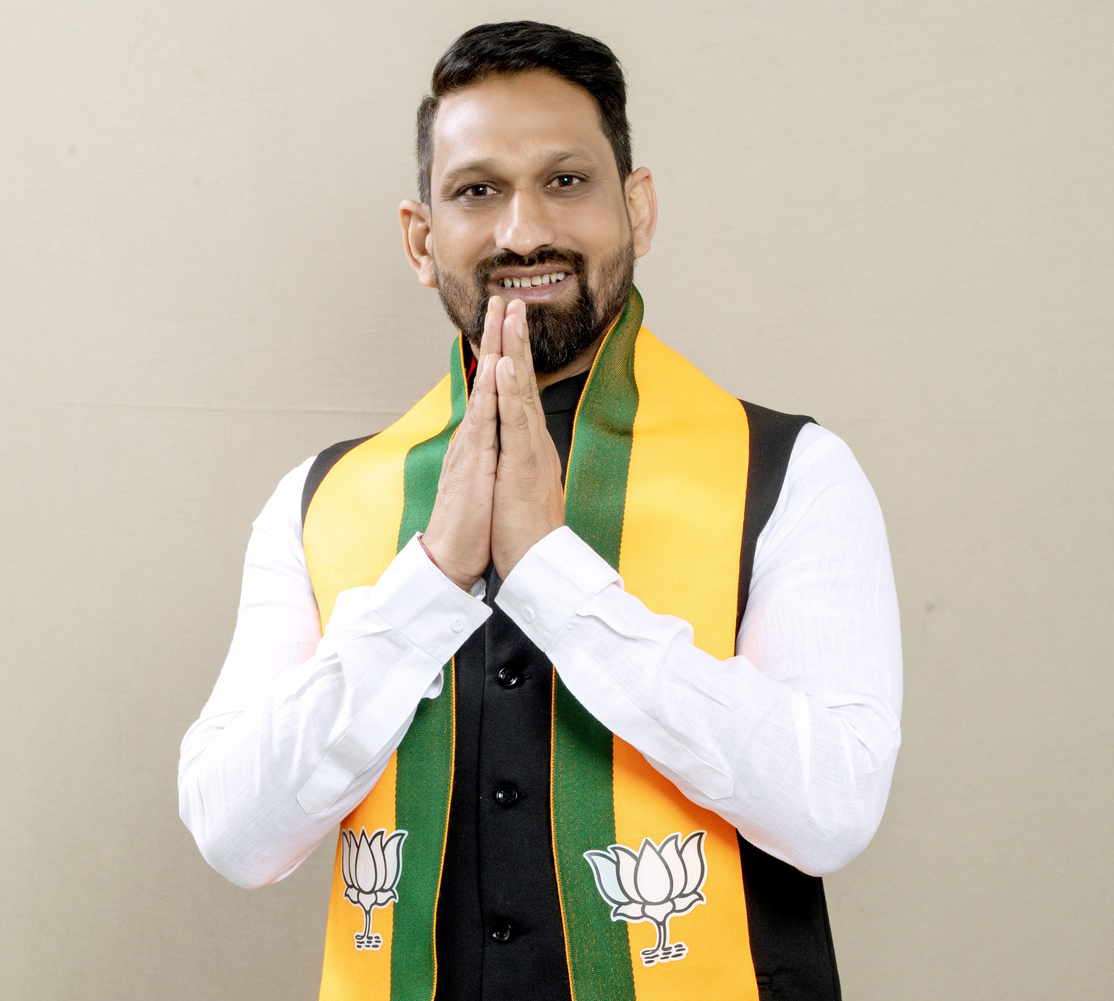
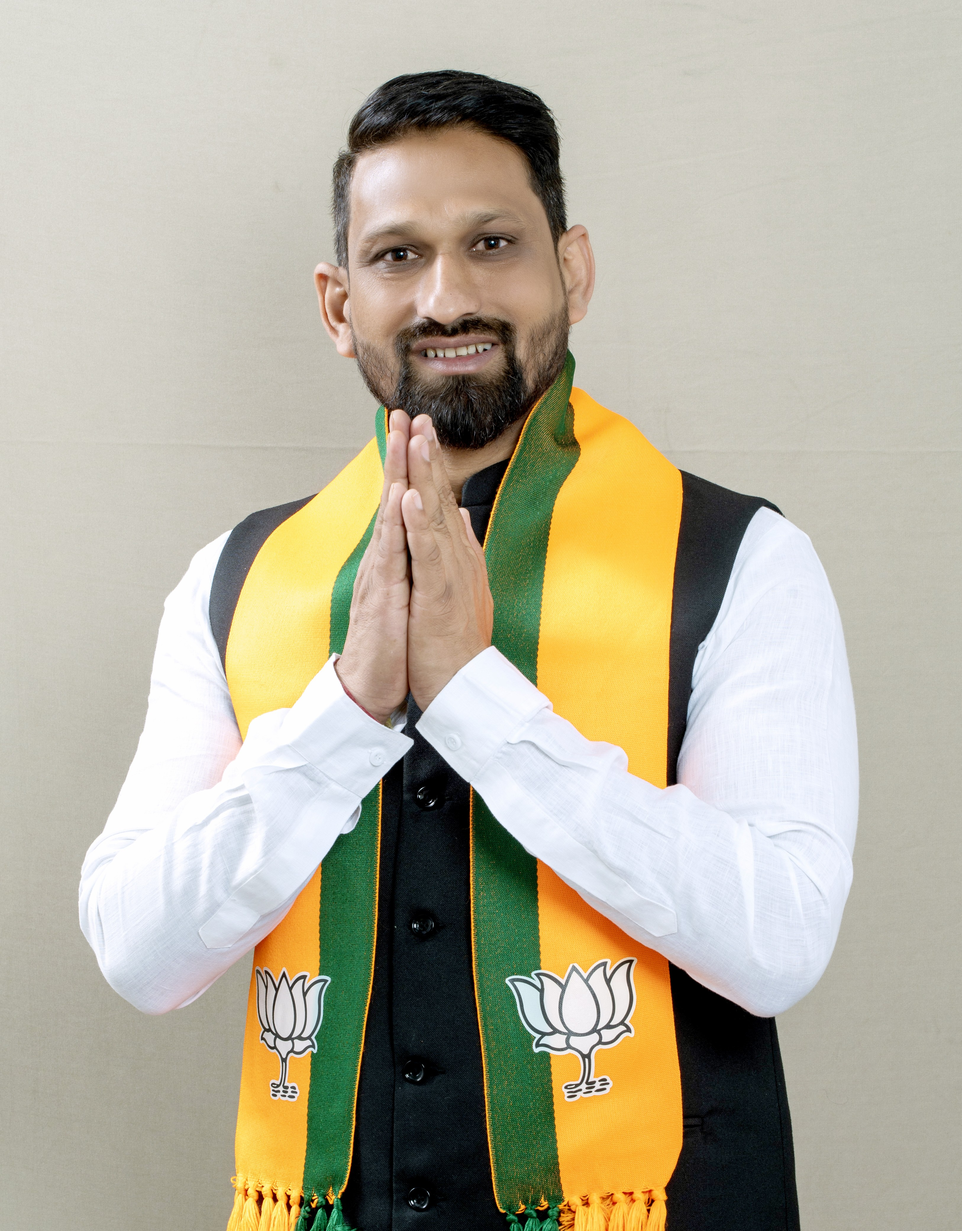
Update volunteer, vision and ward issues sections

diff --git a/style.css b/style.css
@@ -172,7 +172,7 @@ section h2::after { content:''; position:absolute; bottom:0; left:50%; transform
 
 .about-image { 
   width:100%; 
-  height:500px; 
+  aspect-ratio: 3253 / 4161; 
   background: linear-gradient(135deg, var(--color-primary), #ff8c42); 
   border-radius:20px; 
   overflow:hidden; 
@@ -192,7 +192,7 @@ section h2::after { content:''; position:absolute; bottom:0; left:50%; transform
 .candidate-photo {
   width:100%; 
   height:100%; 
-  object-fit:cover; 
+  object-fit:contain; 
   display:block; 
 }
 
@@ -596,7 +596,7 @@ footer p { margin-bottom:10px; opacity:0.9; }
     .hero h1 { font-size:28px; }
     .hero .tagline { font-size:var(--font-size-base); }
     .about .content, .contact-content { grid-template-columns: 1fr; }
-    .about-image { height:250px; }
+    .about-image { aspect-ratio: 3253 / 4161; max-height: 500px; }
     section { padding:50px 20px; }
     .cta-buttons { flex-direction: column; }
     .btn { width:100%; }

diff --git a/index.html b/index.html
@@ -691,7 +691,7 @@
 
         .about-image {
             width: 100%;
-            height: 800px;
+            aspect-ratio: 3253 / 4161;
             background: linear-gradient(135deg, var(--color-primary), #ff8c42);
             border-radius: 18px;
             overflow: hidden;
